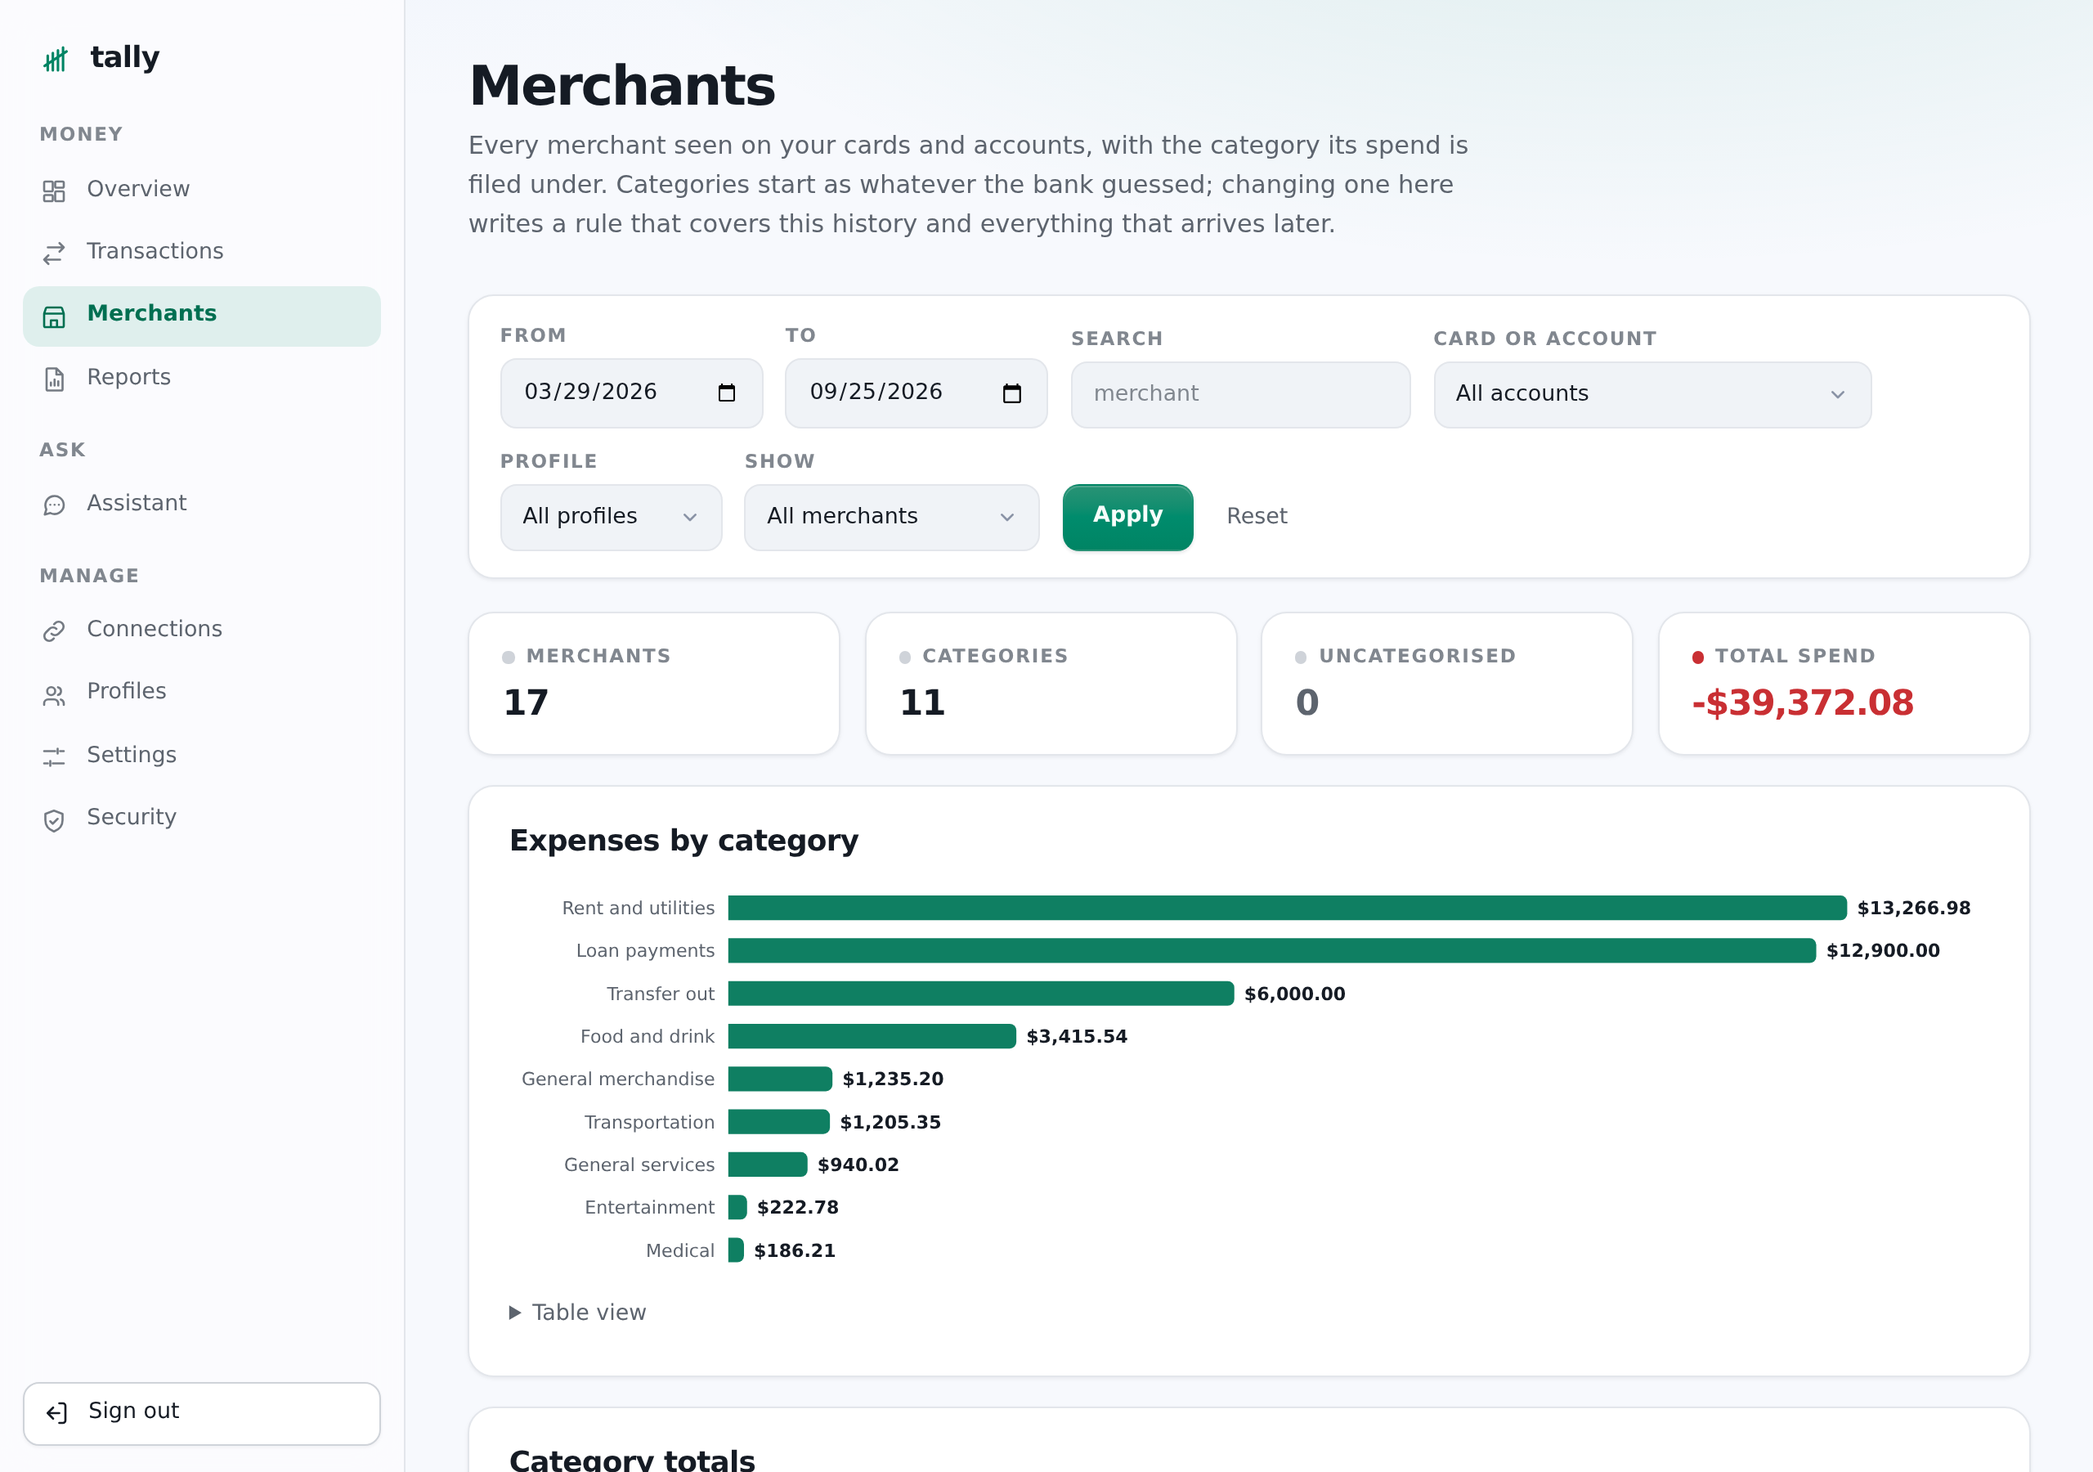
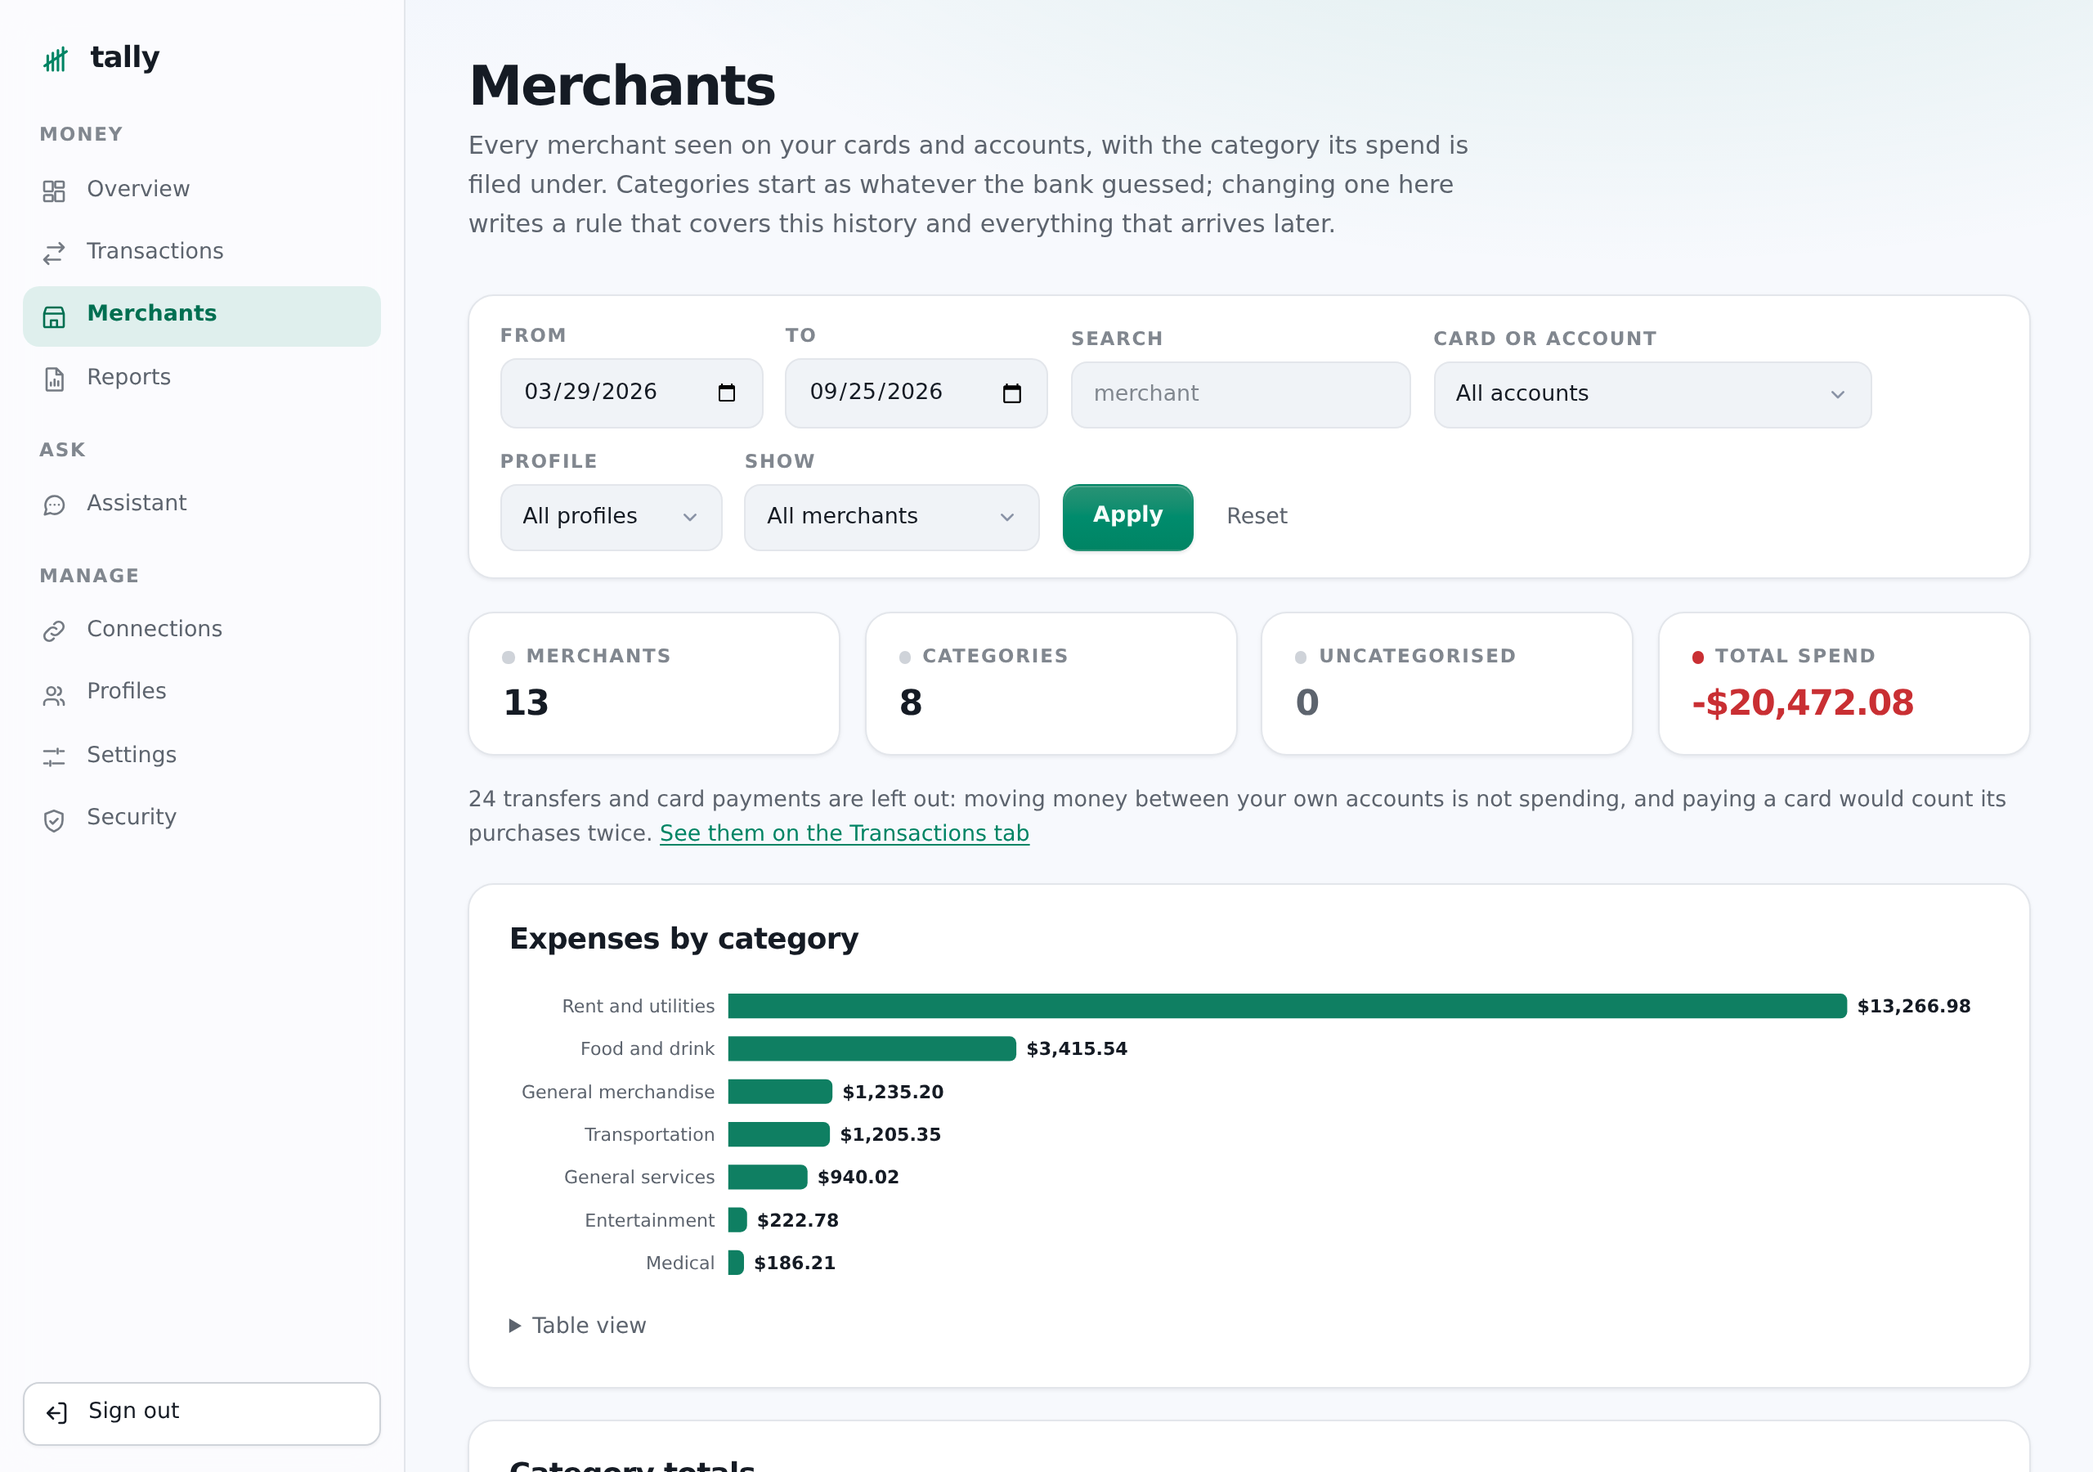
fix: Merchants counted card payments as spending, twice over
Found while screenshotting the redesign. The Merchants page listed "Loan
payments" and "Transfer out" as expense categories and added them to its
total, so paying a card from chequing counted the card's purchases twice:
on the demo household, a year's spend of $20,481 showed as $39,381. It is
the double count already fixed on the Transactions tab and in reports;
this page and the get_spend_by_merchant MCP tool never picked up the
shared exclusion.

Both now split rows through splitTransfers (NOT_SPENDING_CATEGORIES, read
after corrections) and say how many they left out. The page links to them
on the Transactions tab; the tool takes include_transfers like
get_cashflow. Merchants now agrees with Reports and cashflow to the cent.

Both also capped their rows at 1,000 under a comment saying they read
the whole window. The page defaults to a year, and a dozen linked banks
pass a thousand transactions well before that, so totals silently covered
only the newest rows. Rollups now read up to ROLLUP_ROW_LIMIT, and the
tool's `limit` trims the groups shown, never the rows summed.

Tests fail on the old code: the double count on the page and over MCP,
include_transfers, and a 1,200-row window.

Claude-Session: https://claude.ai/code/session_01KgsJZJUWodiqW3Eh8PNhPu

diff --git a/src/tools/registry.ts b/src/tools/registry.ts
@@ -21,6 +21,9 @@ import {
   getNetWorth,
   getNetWorthHistory,
   getTransactions,
+  NOT_SPENDING_CATEGORIES,
+  ROLLUP_ROW_LIMIT,
+  splitTransfers,
   groupByCategory,
   groupByMerchant,
   knownCategories,
@@ -512,7 +515,9 @@ export function toolDefs(db: DB): ToolDef[] {
       'Transactions rolled up by merchant (or by category) after hand corrections, with spend, ' +
       'money received, count and date range per group. Use this to find where money actually ' +
       'goes, and to spot one merchant recorded under two spellings — those show up as two ' +
-      'groups with similar names, and set_merchant_rule merges them.',
+      'groups with similar names, and set_merchant_rule merges them. Transfers between the ' +
+      'household’s own accounts and card/loan payments are left out by default, so paying a ' +
+      'card is not counted on top of its purchases; the response says how many were left out.',
     inputSchema: {
       start: DATE.optional(),
       end: DATE.optional(),
@@ -521,6 +526,7 @@ export function toolDefs(db: DB): ToolDef[] {
       group_by: z.enum(['merchant', 'category']).optional(),
       search: z.string().optional(),
       limit: z.number().int().min(1).max(200).optional(),
+      include_transfers: z.boolean().optional(),
     },
     annotations: READ_ONLY,
     handler: (args) => {
@@ -528,8 +534,11 @@ export function toolDefs(db: DB): ToolDef[] {
         const start = args.start ?? daysAgoISO(180);
         const end = args.end ?? todayISO();
         // A rollup over a truncated sample is a wrong number, not a partial
-        // one, so read the rows without the caller's display limit.
-        const rows = getTransactions(db, { ...args, start, end, limit: 1000 });
+        // one, so read the whole window; `limit` only trims the groups shown.
+        const { limit, include_transfers, ...filters } = args;
+        const window = getTransactions(db, { ...filters, start, end, limit: ROLLUP_ROW_LIMIT });
+        const { counted, transfers } = splitTransfers(window);
+        const rows = include_transfers ? window : counted;
         const groups =
           args.group_by === 'category' ? groupByCategory(rows) : groupByMerchant(rows);
         return ok({
@@ -537,7 +546,9 @@ export function toolDefs(db: DB): ToolDef[] {
           end,
           group_by: args.group_by ?? 'merchant',
           transactions: rows.length,
-          groups: args.limit ? groups.slice(0, args.limit) : groups,
+          excluded_transfers: include_transfers ? 0 : transfers.length,
+          excluded_categories: include_transfers ? [] : NOT_SPENDING_CATEGORIES,
+          groups: limit ? groups.slice(0, limit) : groups,
         });
       } catch (e) {
         return fail(e);

diff --git a/test/report.test.ts b/test/report.test.ts
@@ -239,6 +239,51 @@ describe('the printed page', () => {
   });
 });
 
+describe('spend by merchant, over MCP', () => {
+  type Rollup = {
+    transactions: number;
+    excluded_transfers: number;
+    groups: Array<{ category?: string; merchant?: string; spend_cad: number }>;
+  };
+  const call = async (args: Record<string, unknown>): Promise<Rollup> => {
+    const def = toolDefs(db).find((d) => d.name === 'get_spend_by_merchant')!;
+    const res = await def.handler({ start: '2026-08-01', end: '2026-08-31', ...args });
+    return JSON.parse((res.content[0] as { text: string }).text) as Rollup;
+  };
+
+  it('does not count a card payment on top of the purchases it paid for', async () => {
+    const r = await call({ group_by: 'category' });
+    const cats = r.groups.map((g) => g.category);
+    expect(cats).not.toContain('LOAN_PAYMENTS');
+    expect(cats).not.toContain('TRANSFER_OUT');
+    // 300 of purchases, plus the pending coffee this rollup has always shown.
+    expect(r.groups.reduce((s, g) => s + g.spend_cad, 0)).toBe(345);
+    expect(r.excluded_transfers).toBe(4);
+  });
+
+  it('includes them when asked', async () => {
+    const r = await call({ group_by: 'category', include_transfers: true });
+    expect(r.groups.map((g) => g.category)).toContain('LOAN_PAYMENTS');
+    expect(r.excluded_transfers).toBe(0);
+  });
+
+  it('reads the whole window, not the first thousand rows', async () => {
+    // A year with a dozen linked banks is well past a thousand transactions;
+    // a rollup over the newest thousand is a wrong total, not a partial one.
+    upsertTransactions(
+      db,
+      Array.from({ length: 1_200 }, (_, i) =>
+        tx(`bulk-${String(i)}`, 'card', '2026-08-12', 1, 'SHOPPING', 'Corner Store'),
+      ),
+    );
+    const r = await call({ group_by: 'merchant', limit: 3 });
+    expect(r.transactions).toBeGreaterThan(1_200);
+    expect(r.groups.find((g) => g.merchant === 'Corner Store')?.spend_cad).toBe(1_200);
+    // `limit` trims the groups shown, never the rows summed.
+    expect(r.groups).toHaveLength(3);
+  });
+});
+
 describe('over MCP', () => {
   it('is a read-only tool that returns the same report', async () => {
     const def = toolDefs(db).find((d) => d.name === 'get_period_report');

diff --git a/src/web/routes.ts b/src/web/routes.ts
@@ -93,6 +93,8 @@ import {
   groupByMerchant,
   isTransferLike,
   knownCategories,
+  ROLLUP_ROW_LIMIT,
+  splitTransfers,
   listAccounts,
 } from '../queries.ts';
 import {
@@ -1057,14 +1059,18 @@ export function createWebRouter(db: DB): express.Router {
     const f = readMerchantFilters(req);
     // A directory over a truncated sample would show the wrong merchants, not
     // merely fewer, so this reads the whole window.
-    const rows = getTransactions(db, {
+    const window = getTransactions(db, {
       start: f.start,
       end: f.end,
       ...(f.profile ? { profile: f.profile } : {}),
       ...(f.account_id ? { account_id: f.account_id } : {}),
       ...(f.search ? { search: f.search } : {}),
-      limit: 1000,
+      limit: ROLLUP_ROW_LIMIT,
     });
+    // Paying a card and moving money to savings are not merchants or spending:
+    // counted here they doubled the card's purchases in "Expenses by category"
+    // and the total. Same exclusion as cashflow and the Transactions tab.
+    const { counted: rows, transfers } = splitTransfers(window);
     const all = groupByMerchant(rows);
     const merchants = f.uncategorized
       ? all.filter((m) => !m.category || m.category === 'UNCATEGORIZED')
@@ -1080,6 +1086,7 @@ export function createWebRouter(db: DB): express.Router {
         filters: f,
         merchants,
         categoryGroups: groupByCategory(rows),
+        hiddenTransfers: transfers.length,
         cards: listAccounts(db, {}),
         categories: knownCategories(db),
         customCategories: customCategories(db),

diff --git a/src/web/pages.ts b/src/web/pages.ts
@@ -1446,6 +1446,8 @@ export function merchantsPage(opts: {
   categories: string[];
   customCategories: string[];
   profiles: Profile[];
+  /** Transfers and card payments left out of the directory and the totals. */
+  hiddenTransfers?: number;
   flash?: SafeHtml;
 }): SafeHtml {
   const f = opts.filters;
@@ -1521,6 +1523,16 @@ export function merchantsPage(opts: {
       <div class="kpi"><div class="label">Uncategorised</div><div class="value ${uncategorized.length ? 'neg' : 'muted'}">${String(uncategorized.length)}</div></div>
       <div class="kpi"><div class="label">Total spend</div><div class="value neg">${money(-totalSpend)}</div></div>
     </div>
+    ${
+      opts.hiddenTransfers
+        ? html`<p class="hint mb">
+            ${String(opts.hiddenTransfers)} transfer${opts.hiddenTransfers === 1 ? '' : 's'} and card
+            payment${opts.hiddenTransfers === 1 ? '' : 's'} are left out: moving money between your own
+            accounts is not spending, and paying a card would count its purchases twice.
+            <a href="/transactions?transfers=show&amp;start=${f.start}&amp;end=${f.end}">See them on the Transactions tab</a>
+          </p>`
+        : raw('')
+    }
 
     <section>
       <h2>Expenses by category</h2>

diff --git a/src/queries.ts b/src/queries.ts
@@ -589,6 +589,23 @@ export function isTransferLike(category: string | null | undefined): boolean {
   return NOT_SPENDING_CATEGORIES.includes(category ?? '');
 }
 
+/**
+ * Rows for a rollup: a sum or a ranking over a window. A rollup over a
+ * truncated sample is a wrong number, not a partial one, so this is far above
+ * any real household's year rather than a display page size.
+ */
+export const ROLLUP_ROW_LIMIT = 50_000;
+
+/** Split rows into what counts as spending and income, and what does not. */
+export function splitTransfers<T extends { category: string | null }>(
+  rows: T[],
+): { counted: T[]; transfers: T[] } {
+  const counted: T[] = [];
+  const transfers: T[] = [];
+  for (const r of rows) (isTransferLike(r.category) ? transfers : counted).push(r);
+  return { counted, transfers };
+}
+
 export type CashflowResult = {
   start: string;
   end: string;

diff --git a/test/web.test.ts b/test/web.test.ts
@@ -310,6 +310,18 @@ describe('transfers on the Transactions tab', () => {
     expect(body).toContain('-$500.00');
   });
 
+  it('keeps them out of the Merchants totals too', async () => {
+    seed();
+    const { cookie } = await login();
+    const body = await (
+      await fetch(`${base}/merchants?start=2031-04-01&end=2031-04-30`, { headers: { cookie } })
+    ).text();
+    // 250 of groceries is the only spending; the payment would have doubled it.
+    expect(body).toContain('-$250.00');
+    expect(body).not.toContain('-$500.00');
+    expect(body).toMatch(/2 transfers and card\s+payments are left out/);
+  });
+
   it('steps aside when you ask for a transfer category by name', async () => {
     seed();
     const body = await page('&category=LOAN_PAYMENTS');

diff --git a/README.md b/README.md
@@ -124,7 +124,7 @@ question:
 | `set_contributed`, `set_room_limit` | Correct the room figures by hand |
 | `list_profiles`, `create_profile`, `rename_profile`, `delete_profile` | Manage profiles |
 | `move_account` | Re-attribute an account to another profile |
-| `get_spend_by_merchant` | Rollup by merchant or category — where duplicate spellings show up |
+| `get_spend_by_merchant` | Rollup by merchant or category, over the whole window — where duplicate spellings show up. Transfers and card payments left out unless `include_transfers` |
 | `set_transaction_category` | Correct one transaction's merchant or category |
 | `set_merchant_rule`, `list_merchant_rules`, `delete_merchant_rule` | Rewrite every match, past and future |
 | `set_merchant_category` | File one merchant under a category, creating it if needed |
@@ -364,7 +364,8 @@ Server-rendered, no framework, no webfonts, no inline styles under a strict CSP.
   filed under, which cards paid it, and when. Set a category per merchant from a
   picker, filter to uncategorised only, and add categories of your own. Above it,
   expenses by category as a ranked bar chart plus a totals table with each
-  category's share.
+  category's share. Transfers and card payments are left out of the directory
+  and the totals, with a count and a link to them on the Transactions tab.
 - **Reports** — one month or one calendar year: net worth at the start and end
   and the change, income, spending, net saved and savings rate, income and
   spending by month (for a year), spending by category with each share, top
@@ -455,7 +456,7 @@ Read [SECURITY.md](SECURITY.md) before deploying. The short version:
 |---|---|
 | `npm run demo` | Seed a fictional database to try it without credentials |
 | `npm run dev` | Run the server from TypeScript |
-| `npm run check` | Typecheck + 384 tests |
+| `npm run check` | Typecheck + 388 tests |
 | `npm run sync` | One-shot sync; exits non-zero if a source errored |
 | `npm run db:init` | Create the database, seeding `room.json` if present |
 | `npm run hash-password` | Print an `ADMIN_PASSWORD_HASH` |

diff --git a/CLAUDE.md b/CLAUDE.md
@@ -80,15 +80,18 @@ history is public too.
    must never break it.
 12. **What counts as spending is defined once.** `NOT_SPENDING_CATEGORIES` in
    `src/queries.ts` (transfers in and out, and card/loan payments) is excluded
-   by cashflow, by the Transactions tab's totals and by the period report, and
-   all three read categories *after* corrections, so a rule that files a row as
+   by cashflow, the Transactions tab's totals, the period report, the Merchants
+   page and `get_spend_by_merchant`, and all of them read categories *after*
+   corrections, so a rule that files a row as
    a transfer removes it everywhere at once. A new surface that totals income
    or spending uses `getCashflow` or `isTransferLike`, never its own list:
    paying a card from chequing counted alongside the purchases it paid for is
    the double count this exists to prevent. The report's figures come from
    `getCashflow` unchanged, and `test/report.test.ts` pins that they agree to
-   the cent. The report's PDF is the browser's print dialog, not a PDF library;
-   keep it that way (see DECISIONS.md).
+   the cent. A rollup reads its whole window (`ROLLUP_ROW_LIMIT`), never a page
+   of rows: a total over the newest thousand transactions is wrong, not partial.
+   The report's PDF is the browser's print dialog, not a PDF library; keep it
+   that way (see DECISIONS.md).
 13. **One sync at a time, and the web UI never waits on it.** `runSync`
    is single-flight: a second caller (the Refresh button, the nightly job, MCP
    `sync_now`) gets the run already in progress. Start syncs only through it —

diff --git a/DECISIONS.md b/DECISIONS.md
@@ -3,6 +3,21 @@
 Dated, append-only. Each entry says what was chosen, what it was chosen over,
 and why.
 
+## 2026-09-25 — Merchants stops double counting card payments
+
+Found while screenshotting the redesign: the Merchants page listed "Loan
+payments" and "Transfer out" as expense categories and added them to its total,
+so paying a card from chequing counted the card's purchases twice, which is the
+bug fixed on the Transactions tab and in reports two days earlier. The page and
+`get_spend_by_merchant` never picked up the shared exclusion. Both do now, via
+`splitTransfers`, and both say how many rows they left out; the MCP tool takes
+`include_transfers` like `get_cashflow`.
+
+Both also capped their rows at 1,000 under a comment saying they read the whole
+window. The Merchants page defaults to a year, and a dozen linked banks pass a
+thousand transactions long before that, so the totals silently covered only the
+newest ones. Rollups now read up to `ROLLUP_ROW_LIMIT`.
+
 ## 2026-09-25 — The UI moves to a sidebar app shell
 
 A visual revamp: a fixed sidebar with grouped, icon-led navigation on desktop,
